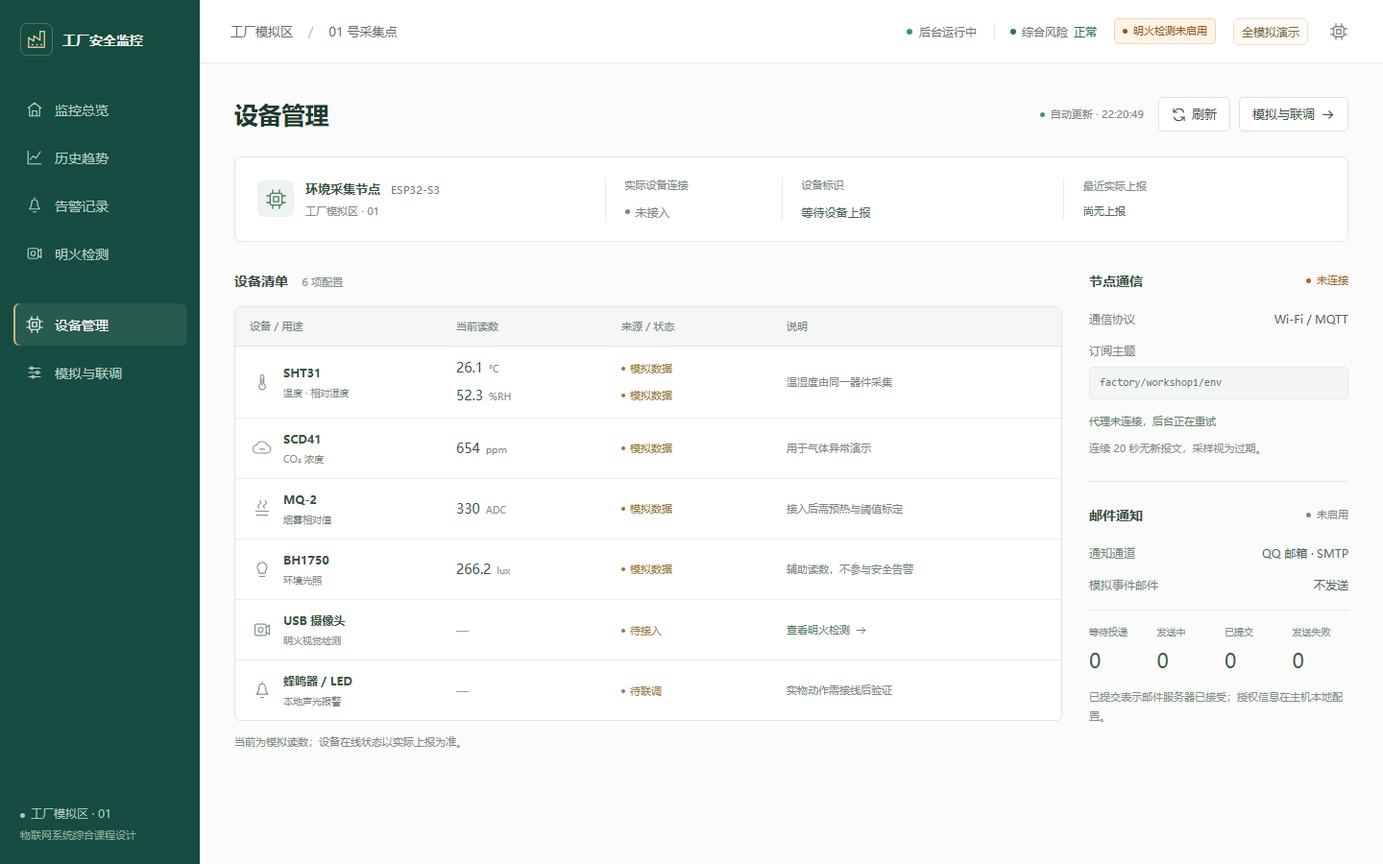
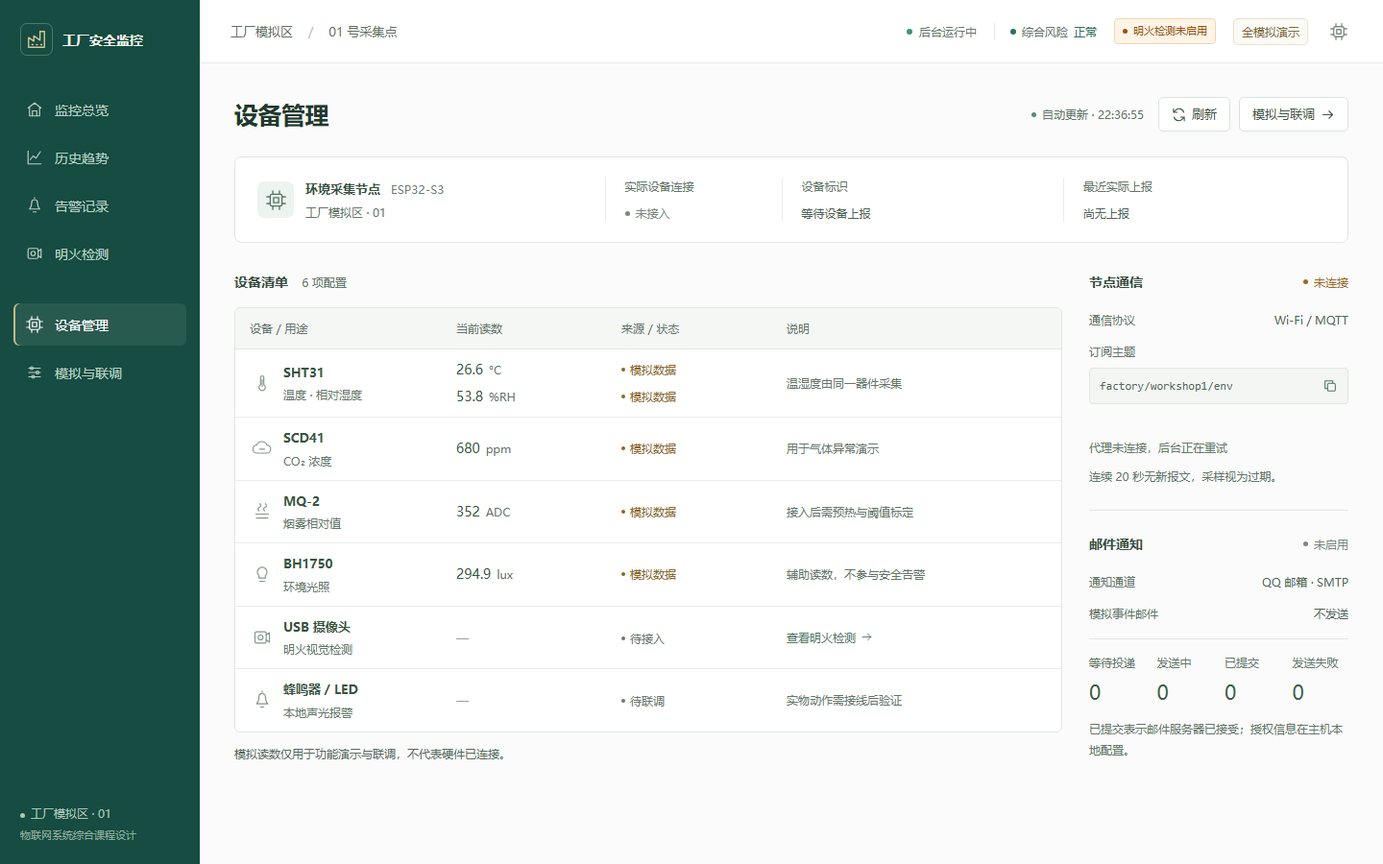
fix: improve device status clarity and add topic copying

diff --git a/static/css/devices.css b/static/css/devices.css
@@ -2,7 +2,7 @@
 .devices-heading { display:flex; align-items:center; justify-content:space-between; gap:18px; margin-bottom:26px; }
 .devices-heading h1 { margin:0; font-size:25px; font-weight:650; letter-spacing:-.5px; line-height:1.4; color:#21382e; }
 .devices-actions { display:flex; align-items:center; gap:9px; }
-.devices-auto { display:inline-flex; align-items:center; gap:6px; font-size:11px; color:#7a887f; margin-right:6px; white-space:nowrap; }
+.devices-auto { display:inline-flex; align-items:center; gap:6px; font-size:12px; color:#64756a; margin-right:6px; white-space:nowrap; }
 .devices-auto::before { content:""; width:5px; height:5px; border-radius:50%; background:#9aa89f; }
 .devices-auto[data-state="ready"]::before { background:#598b70; }.devices-auto[data-state="error"] { color:#a13e35; }.devices-auto[data-state="error"]::before { background:#b65746; }
 .device-node-summary { display:grid; grid-template-columns:minmax(225px,1.25fr) minmax(110px,.6fr) minmax(150px,1fr) minmax(165px,1fr); gap:20px; align-items:center; padding:21px 23px; margin-bottom:29px; background:#fff; border:1px solid #e0e6e1; border-radius:7px; }
@@ -10,12 +10,12 @@
 .device-node-symbol { display:grid; place-items:center; width:38px; height:38px; border-radius:7px; background:#edf3ef; color:#51775f; flex-shrink:0; }
 .device-node-symbol>.icon { width:21px; height:21px; stroke-width:1.5; }
 .device-node-identity h2 { margin:0; font-size:13px; color:#36513f; font-weight:550; line-height:1.7; }
-.device-node-identity h2>span { display:inline-block; margin-left:7px; color:#6c7e70; font-size:11px; font-weight:400; letter-spacing:.2px; }
-.device-node-identity p { margin:3px 0 0; color:#7d8b81; font-size:11px; }
+.device-node-identity h2>span { display:inline-block; margin-left:7px; color:#6c7e70; font-size:12px; font-weight:400; letter-spacing:.2px; }
+.device-node-identity p { margin:3px 0 0; color:#64756a; font-size:12px; }
 .device-node-field { display:flex; flex-direction:column; align-items:flex-start; gap:10px; min-width:0; border-left:1px solid #e7ece8; padding-left:20px; }
-.device-node-field>span { color:#7a887f; font-size:11px; }.device-node-field>strong { font-size:12px; font-weight:450; color:#4c6355; overflow-wrap:anywhere; }
-.device-last-seen strong { font-size:11px; font-variant-numeric:tabular-nums; }
-.device-state { display:inline-flex; align-items:center; gap:6px; font-size:11px; font-weight:400; color:#7b877f; white-space:nowrap; }
+.device-node-field>span { color:#64756a; font-size:12px; }.device-node-field>strong { font-size:12px; font-weight:450; color:#4c6355; overflow-wrap:anywhere; }
+.device-last-seen strong { font-size:12px; font-variant-numeric:tabular-nums; }
+.device-state { display:inline-flex; align-items:center; gap:6px; font-size:12px; font-weight:400; color:#7b877f; white-space:nowrap; }
 .device-state::before { content:""; width:5px; height:5px; border-radius:50%; background:currentColor; flex-shrink:0; }
 .device-state[data-state="ready"],.device-node-field>.device-state[data-state="ready"] { color:#317153; }
 .device-state[data-state="pending"] { color:#9b6b27; }.device-state[data-state="error"] { color:#aa4037; }
@@ -25,49 +25,54 @@
 .devices-inventory,.devices-services { min-width:0; }
 .devices-section-heading { display:flex; align-items:center; justify-content:space-between; gap:12px; min-height:23px; margin-bottom:15px; }
 .devices-section-heading h2 { margin:0; font-size:14px; font-weight:600; color:#354c40; line-height:1.5; }
-.devices-section-heading h2>span { font-size:11px; color:#849087; font-weight:400; margin-left:10px; }
-.devices-scroll-hint { display:none; color:#849087; font-size:10px; }
+.devices-section-heading h2>span { font-size:12px; color:#64756a; font-weight:400; margin-left:10px; }
+.devices-scroll-hint { display:none; color:#64756a; font-size:12px; }
 .devices-table-wrap { overflow:auto; border:1px solid #dfe6e0; border-radius:6px; background:#fff; }
 .devices-table { min-width:665px; width:100%; border-collapse:collapse; white-space:normal; table-layout:fixed; }
-.devices-table thead th { padding:12px 15px; text-align:left; font-size:11px; font-weight:400; color:#738278; background:#f5f7f5; border-bottom:1px solid #e2e8e2; white-space:nowrap; }
+.devices-table thead th { padding:12px 15px; text-align:left; font-size:12px; font-weight:400; color:#64756a; background:#f5f7f5; border-bottom:1px solid #e2e8e2; white-space:nowrap; }
 .devices-table thead th:nth-child(1) { width:25%; }.devices-table thead th:nth-child(2) { width:20%; }.devices-table thead th:nth-child(3) { width:20%; }.devices-table thead th:nth-child(4) { width:35%; }
-.devices-table tbody th,.devices-table tbody td { padding:12px 15px; border-bottom:1px solid #e9eee9; text-align:left; vertical-align:middle; font-size:12px; color:#4c6355; background:transparent; font-weight:400; }
+.devices-table tbody th,.devices-table tbody td { padding:11px 15px; border-bottom:1px solid #e9eee9; text-align:left; vertical-align:middle; font-size:12px; color:#4c6355; background:transparent; font-weight:400; }
 .devices-table tbody tr:last-child>th,.devices-table tbody tr:last-child>td { border-bottom:0; }
 .devices-table tbody tr:hover>th,.devices-table tbody tr:hover>td { background:#f8faf8; }
 .device-item-name { display:flex; align-items:center; gap:10px; }.device-item-name>div { min-width:0; }
 .device-item-symbol { width:25px; display:grid; place-items:center; flex-shrink:0; color:#829789; }.device-item-symbol>.icon { width:20px; height:20px; stroke-width:1.4; }
-.device-item-name strong { display:block; color:#385442; font-size:12px; font-weight:550; white-space:nowrap; }
-.device-item-name small { display:block; color:#7d8d81; font-size:10px; font-weight:400; margin-top:5px; line-height:1.5; }
+.device-item-name strong { display:block; color:#385442; font-size:13px; font-weight:550; white-space:nowrap; }
+.device-item-name small { display:block; color:#64756a; font-size:12px; font-weight:400; margin-top:5px; line-height:1.5; }
 .device-cell-stack { display:flex; flex-direction:column; gap:8px; align-items:flex-start; }
 .device-reading { display:flex; align-items:baseline; gap:6px; min-height:20px; line-height:20px; font-variant-numeric:tabular-nums; white-space:nowrap; }
-.device-reading strong { font-size:14px; font-weight:500; color:#355542; }.device-reading>span { font-size:10px; color:#7e8e82; }
+.device-reading strong { font-size:14px; font-weight:500; color:#355542; }.device-reading>span { font-size:12px; color:#64756a; }
 .device-reading[data-state="missing"] strong,.device-reading[data-state="unknown"] strong,.device-no-reading { color:#96a298; }
-.device-source { display:inline-flex; align-items:center; gap:5px; min-height:20px; line-height:20px; color:#7b887f; font-size:11px; white-space:nowrap; }
+.device-source { display:inline-flex; align-items:center; gap:5px; min-height:20px; line-height:20px; color:#69776e; font-size:12px; white-space:nowrap; }
 .device-source::before { content:""; width:4px; height:4px; border-radius:50%; background:currentColor; flex-shrink:0; }
-.device-source[data-state="simulation"] { color:#97732e; }.device-source[data-state="mqtt"] { color:#3c795a; }.device-source[data-state="pending"] { color:#9b793b; }
-.devices-table td.device-note { color:#78897c; font-size:11px; line-height:1.7; overflow-wrap:anywhere; }
-.devices-text-link { display:inline-flex; align-items:center; gap:5px; color:#4f775e; font-size:11px; }.devices-text-link>.icon { width:13px; height:13px; }.devices-text-link:hover { text-decoration:underline; text-underline-offset:3px; }
-.devices-data-note { margin:12px 0 0; color:#7e8b81; font-size:11px; line-height:1.8; }
+.device-source[data-state="simulation"] { color:#8b6725; }.device-source[data-state="mqtt"] { color:#317153; }.device-source[data-state="pending"] { color:#69776e; }
+.devices-table td.device-note { color:#64756a; font-size:12px; line-height:1.7; overflow-wrap:anywhere; }
+.devices-text-link { display:inline-flex; align-items:center; gap:5px; color:#4f775e; font-size:12px; }.devices-text-link>.icon { width:13px; height:13px; }.devices-text-link:hover { text-decoration:underline; text-underline-offset:3px; }
+.devices-data-note { margin:12px 0 0; color:#566b5d; font-size:12px; line-height:1.8; }
 .devices-service+.devices-service { margin-top:24px; border-top:1px solid #dfe6e0; padding-top:23px; }
 .devices-service-facts { display:grid; gap:15px; margin:19px 0 13px; font-size:12px; }
 .devices-service-facts>div { display:flex; align-items:baseline; justify-content:space-between; gap:14px; }
-.devices-service-facts dt { flex-shrink:0; color:#78897c; }.devices-service-facts dd { margin:0; text-align:right; color:#4e6655; overflow-wrap:anywhere; }
+.devices-service-facts dt { flex-shrink:0; color:#64756a; }.devices-service-facts dd { margin:0; text-align:right; color:#4e6655; overflow-wrap:anywhere; }
 .devices-service-facts>.device-topic { flex-direction:column; gap:8px; }
-.device-topic dd { width:100%; text-align:left; }.device-topic code { display:block; padding:8px 10px; border:1px solid #e6ebe6; background:#f3f6f3; border-radius:4px; font-size:11px; font-family:Consolas,monospace; color:#657c6c; overflow-wrap:anywhere; }
-.devices-service-note { margin:0 0 8px; color:#647a6b; font-size:11px; line-height:1.8; overflow-wrap:anywhere; }
-.devices-service-caption { margin:0; color:#849085; font-size:11px; line-height:1.8; }
+.device-topic dd { width:100%; text-align:left; }
+.device-topic-value { display:flex; align-items:center; border:1px solid #e0e7e0; background:#f3f6f3; border-radius:4px; }
+.device-topic code { flex:1; min-width:0; padding:8px 10px; font-size:12px; font-family:Consolas,monospace; color:#4e6857; overflow-wrap:anywhere; }
+.device-copy-button { display:grid; place-items:center; flex-shrink:0; width:30px; height:30px; margin:3px; padding:0; border:0; border-radius:3px; background:transparent; color:#57735f; cursor:pointer; }
+.device-copy-button>.icon { width:16px; height:16px; stroke-width:1.6; }.device-copy-button:hover:enabled { background:#e3ece5; color:#24563f; }.device-copy-button:focus-visible { outline:2px solid #317153; outline-offset:1px; }.device-copy-button:disabled { color:#9ba69e; cursor:not-allowed; }
+.device-copy-feedback { display:block; min-height:18px; margin-top:4px; font-size:12px; line-height:1.5; color:#317153; }.device-copy-feedback[data-state="error"] { color:#a13e35; }
+.devices-service-note { margin:0 0 8px; color:#647a6b; font-size:12px; line-height:1.8; overflow-wrap:anywhere; }
+.devices-service-caption { margin:0; color:#64756a; font-size:12px; line-height:1.8; }
 .devices-mail-queue { display:grid; grid-template-columns:repeat(4,minmax(0,1fr)); padding:15px 0 16px; margin-top:17px; border-top:1px solid #e3e9e3; gap:12px; }
-.devices-mail-queue>div { display:flex; flex-direction:column; gap:9px; }.devices-mail-queue span { font-size:10px; color:#829086; white-space:nowrap; }.devices-mail-queue strong { font-size:21px; line-height:1.2; font-weight:450; color:#405e4b; font-variant-numeric:tabular-nums; overflow-wrap:anywhere; }
+.devices-mail-queue>div { display:flex; flex-direction:column; gap:9px; }.devices-mail-queue span { font-size:12px; color:#64756a; white-space:nowrap; }.devices-mail-queue strong { font-size:21px; line-height:1.2; font-weight:450; color:#405e4b; font-variant-numeric:tabular-nums; overflow-wrap:anywhere; }
 .devices-mail-queue #queueFailed[data-failed="true"] { color:#ac493b; }
-.devices-queue-message { font-size:11px; color:#a13e35; margin:0 0 10px; line-height:1.7; }.devices-queue-message:empty { display:none; }
-@media(min-width:1750px) { .devices-layout { grid-template-columns:minmax(0,1fr) 304px; gap:34px; }.devices-table tbody th,.devices-table tbody td { padding:18px 20px; }.device-item-name strong { font-size:13px; }.device-item-name small,.devices-table td.device-note { font-size:11px; }.device-reading strong { font-size:15px; } }
+.devices-queue-message { font-size:12px; color:#a13e35; margin:0 0 10px; line-height:1.7; }.devices-queue-message:empty { display:none; }
+@media(min-width:1750px) { .devices-layout { grid-template-columns:minmax(0,1fr) 304px; gap:34px; }.devices-table tbody th,.devices-table tbody td { padding:18px 20px; }.device-item-name strong { font-size:13px; }.device-item-name small,.devices-table td.device-note { font-size:12px; }.device-reading strong { font-size:15px; } }
 @media(max-width:1200px) { .device-node-summary { grid-template-columns:minmax(210px,1fr) minmax(100px,.65fr) minmax(130px,1fr) minmax(145px,1fr); gap:12px; padding:18px; }.device-node-field { padding-left:13px; }.devices-layout { grid-template-columns:minmax(0,1fr) 245px; gap:23px; }.devices-table { min-width:610px; }.devices-table tbody th,.devices-table tbody td,.devices-table thead th { padding-left:12px; padding-right:12px; }.device-item-symbol { display:none; }.devices-auto { display:none; } }
 @media(max-width:1050px) { .devices-layout { grid-template-columns:minmax(0,1fr); gap:28px; }.devices-services { display:grid; grid-template-columns:1fr 1fr; gap:28px; border-top:1px solid #dfe6e0; padding-top:23px; }.devices-service+.devices-service { margin:0; padding:0 0 0 26px; border-top:0; border-left:1px solid #dfe6e0; }.device-node-summary { grid-template-columns:1fr 1fr; gap:22px; }.device-node-identity { grid-row:1; }.device-node-field { border:0; padding:0; }.device-node-field:nth-child(2) { align-items:flex-end; }.device-last-seen { align-items:flex-end; }.devices-table { min-width:610px; }.devices-scroll-hint { display:inline; } }
 @media(max-width:720px) {
   .devices-heading { margin-bottom:23px; flex-wrap:wrap; gap:14px; }.devices-heading h1 { font-size:23px; }.devices-actions { gap:7px; }.devices-actions .button { padding:7px 9px; font-size:12px; }
-  .device-node-summary { padding:17px 16px; margin-bottom:24px; gap:21px 12px; }.device-node-symbol { width:30px; height:30px; }.device-node-symbol>.icon { width:19px; height:19px; }.device-node-identity { gap:9px; }.device-node-identity h2 { font-size:12px; }.device-node-identity h2>span,.device-node-identity p { font-size:10px; }.device-node-identity h2>span { display:block; margin-left:0; }
-  .device-node-field>strong { font-size:11px; }.device-node-field>span { font-size:10px; }.device-node-field { gap:7px; }.device-last-seen strong { text-align:right; }
+  .device-node-summary { padding:17px 16px; margin-bottom:24px; gap:21px 12px; }.device-node-symbol { width:30px; height:30px; }.device-node-symbol>.icon { width:19px; height:19px; }.device-node-identity { gap:9px; }.device-node-identity h2 { font-size:12px; }.device-node-identity h2>span,.device-node-identity p { font-size:12px; }.device-node-identity h2>span { display:block; margin-left:0; }
+  .device-node-field>strong { font-size:12px; }.device-node-field>span { font-size:12px; }.device-node-field { gap:7px; }.device-last-seen strong { text-align:right; }
   .devices-services { grid-template-columns:1fr; gap:23px; }.devices-service+.devices-service { border:0; border-top:1px solid #dfe6e0; padding:23px 0 0; }
-  .devices-service-facts { font-size:12px; }.devices-section-heading h2 { font-size:13px; }.devices-section-heading h2>span { font-size:10px; }.devices-data-note { font-size:11px; }
-  .devices-mail-queue { gap:15px; }.devices-mail-queue span { font-size:11px; }
+  .devices-service-facts { font-size:12px; }.devices-section-heading h2 { font-size:13px; }.devices-section-heading h2>span { font-size:12px; }.devices-data-note { font-size:12px; }
+  .devices-mail-queue { gap:15px; }.devices-mail-queue span { font-size:12px; }
 }

diff --git a/static/js/dashboard.js b/static/js/dashboard.js
@@ -16,7 +16,7 @@
   let loadedHistoryQuery = null, historyState = "loading", historyExportBusy = false;
   let controlBusy = false, notificationsOnline = true, eventPage = 1, eventPages = 1, queryVersion = 0;
   let appliedAlertParams = new URLSearchParams();
-  let deviceQueueVersion = 0;
+  let deviceQueueVersion = 0, deviceCopyBusy = false, deviceCopyTimer = null;
   try {const saved=JSON.parse(sessionStorage.getItem("factory-event-cursor")); if(saved && Number.isInteger(saved.cursor)){eventCursor=saved.cursor;eventStream=saved.stream;}} catch (_) {}
   const timeText = (ts, full=false) => ts ? new Date(ts*1000).toLocaleString("zh-CN",{
     ...(full?{year:"numeric",month:"2-digit",day:"2-digit"}:{}),hour:"2-digit",minute:"2-digit",second:"2-digit",hour12:false
@@ -74,7 +74,7 @@
     if(page==="devices"){
       $("devicesWorkspace").dataset.state="error";$("devicesWorkspace").setAttribute("aria-busy","false");
       setDeviceState("deviceEsp","状态未知");setDeviceState("deviceMqttState","未知");setDeviceState("deviceMail","未知");
-      ["deviceName","deviceReceived","deviceMqttTopic","deviceDemoMail"].forEach(id=>set(id,"—"));
+      ["deviceName","deviceReceived","deviceDemoMail"].forEach(id=>set(id,"—"));setDeviceTopic(null);
       set("deviceMqtt","连接恢复后更新通信状态");set("devicesFeedback",message+"，请检查后台连接后刷新。");
       set("deviceUpdated","连接中断");$("deviceUpdated").dataset.state="error";
       document.querySelectorAll("[data-device-reading]").forEach(el=>{el.dataset.state="unknown";el.querySelector("[data-device-value]").textContent="—";});
@@ -177,6 +177,34 @@
     const el=$(id);if(!el)return;el.dataset.state=state;
     if(el.textContent!==text)el.textContent=text;
   }
+  function setDeviceTopic(topic){
+    const value=typeof topic==="string"?topic.trim():"",el=$("deviceMqttTopic");
+    if(el.textContent!==(value||"—")){
+      el.textContent=value||"—";clearTimeout(deviceCopyTimer);set("deviceCopyFeedback","");
+    }
+    $("copyDeviceTopic").disabled=!value||deviceCopyBusy;
+  }
+  async function copyDeviceTopic(){
+    const button=$("copyDeviceTopic"),el=$("deviceMqttTopic"),topic=el.textContent;
+    if(button.disabled)return;
+    deviceCopyBusy=true;button.disabled=true;clearTimeout(deviceCopyTimer);set("deviceCopyFeedback","");
+    let copied=false;
+    try{
+      if(navigator.clipboard?.writeText){await navigator.clipboard.writeText(topic);copied=true;}
+    }catch(_){}
+    if(!copied && el.textContent===topic){
+      // Some local HTTP deployments only support copying the current selection.
+      const selection=window.getSelection(),range=document.createRange();
+      range.selectNodeContents(el);selection.removeAllRanges();selection.addRange(range);
+      try{copied=document.execCommand("copy");}catch(_){}
+      if(copied)selection.removeAllRanges();
+    }
+    deviceCopyBusy=false;button.disabled=el.textContent==="—";
+    if(el.textContent!==topic)return;
+    set("deviceCopyFeedback",copied?"已复制":"自动复制失败，请手动复制上方主题。");
+    $("deviceCopyFeedback").dataset.state=copied?"success":"error";
+    if(copied)deviceCopyTimer=setTimeout(()=>set("deviceCopyFeedback",""),2500);
+  }
   function renderDevices(data) {
     const sample=data.sample;
     $("devicesWorkspace").dataset.state="ready";$("devicesWorkspace").setAttribute("aria-busy","false");
@@ -185,7 +213,7 @@
     set("deviceName",sample.hardware_device||"等待设备上报");
     set("deviceReceived",sample.received_at?timeText(sample.received_at,true):"尚无上报");
     setDeviceState("deviceMqttState",data.mqtt.connected?"已连接":"未连接",data.mqtt.connected?"ready":"pending");
-    set("deviceMqtt",data.mqtt.detail);set("deviceMqttTopic",data.mqtt.topic||"—");
+    set("deviceMqtt",data.mqtt.detail);setDeviceTopic(data.mqtt.topic);
     setDeviceState("deviceMail",data.mail.config_error?"配置有误":data.mail.enabled?"已启用":"未启用",data.mail.config_error?"error":data.mail.enabled?"ready":"unknown");
     set("deviceDemoMail",data.mail.allow_demo?"允许发送":"不发送");
     document.querySelectorAll("[data-device-reading]").forEach(el=>{
@@ -199,7 +227,7 @@
     });
     setDeviceState("deviceVisionState",data.vision?.state==="pending"?"待接入":"状态未知",data.vision?.state==="pending"?"pending":"unknown");
     setDeviceState("deviceSoundState",data.sound_light?.state==="pending"?"待联调":"状态未知",data.sound_light?.state==="pending"?"pending":"unknown");
-    set("deviceDataNote",data.mode==="demo"?"当前为模拟读数；设备在线状态以实际上报为准。":data.mode==="hybrid"?"烟雾使用模拟读数，其余指标以有效的实际上报为准。":"当前显示实际采集读数；缺失或过期值保留为空。");
+    set("deviceDataNote",data.mode==="demo"?"模拟读数仅用于功能演示与联调，不代表硬件已连接。":data.mode==="hybrid"?"烟雾使用模拟读数，其余指标以有效的实际上报为准。":"当前显示实际采集读数；缺失或过期值保留为空。");
   }
   function renderDeviceQueue(data){
     const counts=data?.mail_counts;
@@ -588,6 +616,7 @@
     try{renderStatus(await api("/api/status"));}catch(_){markOffline();}
     await refreshPageEvents();button.disabled=false;
   });
+  $("copyDeviceTopic")?.addEventListener("click",copyDeviceTopic);
   $("refreshDevices")?.addEventListener("click",async()=>{
     const button=$("refreshDevices");button.disabled=true;
     try{renderStatus(await api("/api/status"));await refreshQueue();}catch(_){markOffline();}

diff --git a/templates/pages/devices.html b/templates/pages/devices.html
@@ -32,13 +32,13 @@
           <tr data-device-row="sound"><th scope="row"><div class="device-item-name"><span class="device-item-symbol">{{ icon('alerts') }}</span><div><strong>蜂鸣器 / LED</strong><small>本地声光报警</small></div></div></th><td><span class="device-no-reading">—</span></td><td><span id="deviceSoundState" class="device-source" data-state="unknown">等待读取</span></td><td class="device-note">实物动作需接线后验证</td></tr>
         </tbody></table>
       </div>
-      <p class="devices-data-note" id="deviceDataNote">模拟数值仅用于联调，设备在线状态以实际上报为准。</p>
+      <p class="devices-data-note" id="deviceDataNote">模拟读数仅用于功能演示与联调，不代表硬件已连接。</p>
     </section>
 
     <aside class="devices-services" aria-label="通信与通知状态">
       <section class="devices-service" aria-labelledby="deviceMqttTitle">
         <div class="devices-section-heading"><h2 id="deviceMqttTitle">节点通信</h2><span id="deviceMqttState" class="device-state" data-state="unknown">正在读取</span></div>
-        <dl class="devices-service-facts"><div><dt>通信协议</dt><dd>Wi-Fi / MQTT</dd></div><div class="device-topic"><dt>订阅主题</dt><dd><code id="deviceMqttTopic">—</code></dd></div></dl>
+        <dl class="devices-service-facts"><div><dt>通信协议</dt><dd>Wi-Fi / MQTT</dd></div><div class="device-topic"><dt>订阅主题</dt><dd><div class="device-topic-value"><code id="deviceMqttTopic">—</code><button id="copyDeviceTopic" class="device-copy-button" type="button" aria-label="复制订阅主题" title="复制订阅主题" disabled>{{ icon('copy') }}</button></div><span id="deviceCopyFeedback" class="device-copy-feedback" role="status"></span></dd></div></dl>
         <p id="deviceMqtt" class="devices-service-note">正在确认消息连接</p>
         <p class="devices-service-caption">连续 20 秒无新报文，采样视为过期。</p>
       </section>

diff --git a/templates/components.html b/templates/components.html
@@ -15,6 +15,7 @@
 {% elif name == 'mail' %}<rect x="2" y="4" width="20" height="16" rx="2"/><path d="m2 5 10 8L22 5"/>
 {% elif name == 'light' %}<path d="M8 17h8M9 21h6M8 14a6 6 0 1 1 8 0v3H8Z"/>
 {% elif name == 'download' %}<path d="M12 3v12m-5-5 5 5 5-5M4 16v5h16v-5"/>
+{% elif name == 'copy' %}<rect x="8" y="8" width="12" height="12" rx="2"/><path d="M16 8V4H4v12h4"/>
 {% elif name == 'database' %}<ellipse cx="12" cy="5" rx="8" ry="3"/><path d="M4 5v14c0 4 16 4 16 0V5M4 12c0 4 16 4 16 0"/>
 {% elif name == 'arrow-down' %}<path d="M12 4v16m-6-6 6 6 6-6"/>
 {% elif name == 'arrow-up' %}<path d="M12 20V4m-6 6 6-6 6 6"/>

diff --git a/docs/DEVICES_UI.md b/docs/DEVICES_UI.md
@@ -18,6 +18,15 @@
 - 数据自动更新，顶部保留手动刷新。后台断开后清空实时读数，保留静态设备配置；队列读取失败单独提示，旧响应不会覆盖更新的结果。
 - 手机上表格保留可横向滚动区域，通信与邮件区移到清单下方；桌面继续使用固定侧栏。
 
+### 评审后的细节调整
+
+- 模拟来源用黄褐色，实际采集用绿色，待接入、待联调和无有效数据用灰色；保留逐项来源，便于后续混合联调。
+- 设备页辅助文字至少 12px，提升说明、单位与邮件队列标签的对比度；模拟说明改为“模拟读数仅用于功能演示与联调，不代表硬件已连接。”
+- 订阅主题右侧支持点击或键盘复制，成功显示“已复制”，失败时选中主题并提示手动复制；缺少主题或后台断线时禁用按钮。
+- 原有页面结构、底部留白以及共用顶栏保持不变。
+
+复制优先使用 [Clipboard API](https://developer.mozilla.org/en-US/docs/Web/API/Clipboard/writeText)。普通 HTTP 环境下尝试选区复制；该兼容路径使用的 [execCommand](https://developer.mozilla.org/en-US/docs/Web/API/Document/execCommand) 已弃用，不保证所有浏览器支持，因此保留明确的手动复制提示。
+
 设计参考：[shadcn-admin 用户列表](https://shadcn-admin.netlify.app/users)、[ThingsBoard 设备文档](https://thingsboard.io/docs/user-guide/devices/)。取用其信息组织与列表布局思路，实现仍为原生 HTML / CSS / JavaScript，没有复制第三方代码或示例数据。
 
 ## 验证与边界

diff --git a/docs/VALIDATION.md b/docs/VALIDATION.md
@@ -128,3 +128,11 @@ Linux 使用 `.venv/bin/python`；后端测试可以执行 `.venv/bin/python -m 
 ```
 
 设计与截图见 [设备页改版记录](DEVICES_UI.md)。本轮的在线、错误和邮件队列数据仅为软件验证夹具，不代表实机或真实邮件投递已经验收。
+
+### 设备页细节优化复核
+
+- `tests/devices_ui_check.py` 7 组检查通过，五种宽度无整页横向溢出；1366 × 768 下清单位于约 321～762 像素高度。
+- `tests/browser_check.py` 全站回归 9 组通过；JavaScript 语法检查通过，两组回归及专项复核均无页面脚本异常。
+- 浏览器专项复核 6 组通过：键盘复制及剪贴板实际内容、反馈消失、来源配色与至少 12px 的辅助文字、缺失主题和断线时禁用及恢复、普通 HTTP 下复制与粘贴结果、复制失败后的手动选择提示及权限拒绝处理。轮询刷新不会清除手动复制的选区。
+- 专项复核使用 Chromium、隔离数据库与响应夹具；普通 HTTP 通过本地映射域名验证，未访问外部 MQTT 或 SMTP。截图与报告保存在忽略目录 `artifacts/devices-polish/`。
+- 已人工查看 1440 × 900 桌面截图与 390 像素手机截图；本轮只调整设备页呈现和复制交互。

diff --git a/CHANGELOG.md b/CHANGELOG.md
@@ -4,6 +4,8 @@
 
 ## [Unreleased]
 
+- 设备页细节优化：模拟来源保留黄褐色，待接入、待联调与无有效数据使用灰色；辅助文字提高至至少 12px，加深模拟说明，保留逐项来源标记与原有布局。
+- MQTT 订阅主题新增复制按钮，包含成功反馈、失败后的手动复制提示、主题缺失与后台断线时禁用；兼容普通 HTTP 页面上的选区复制。
 - 设备管理页改版：紧凑节点摘要、六项器件配置清单、MQTT 与邮件侧栏，沿用共用导航和风险顶栏；温湿度合并为同一 SHT31 条目，逐项保留有效性与来源。
 - 设备页新增手动刷新，邮件队列分开展示等待、发送中、已提交和失败数量；读取失败清空旧值，设备配置保持可见，较早的队列响应不会覆盖新结果。
 - 新增设备页浏览器验证，覆盖五种宽度、混合来源、部分读数缺失、节点离线与代理连接区分、配置错误和失败恢复。没有新增实机接入能力。
